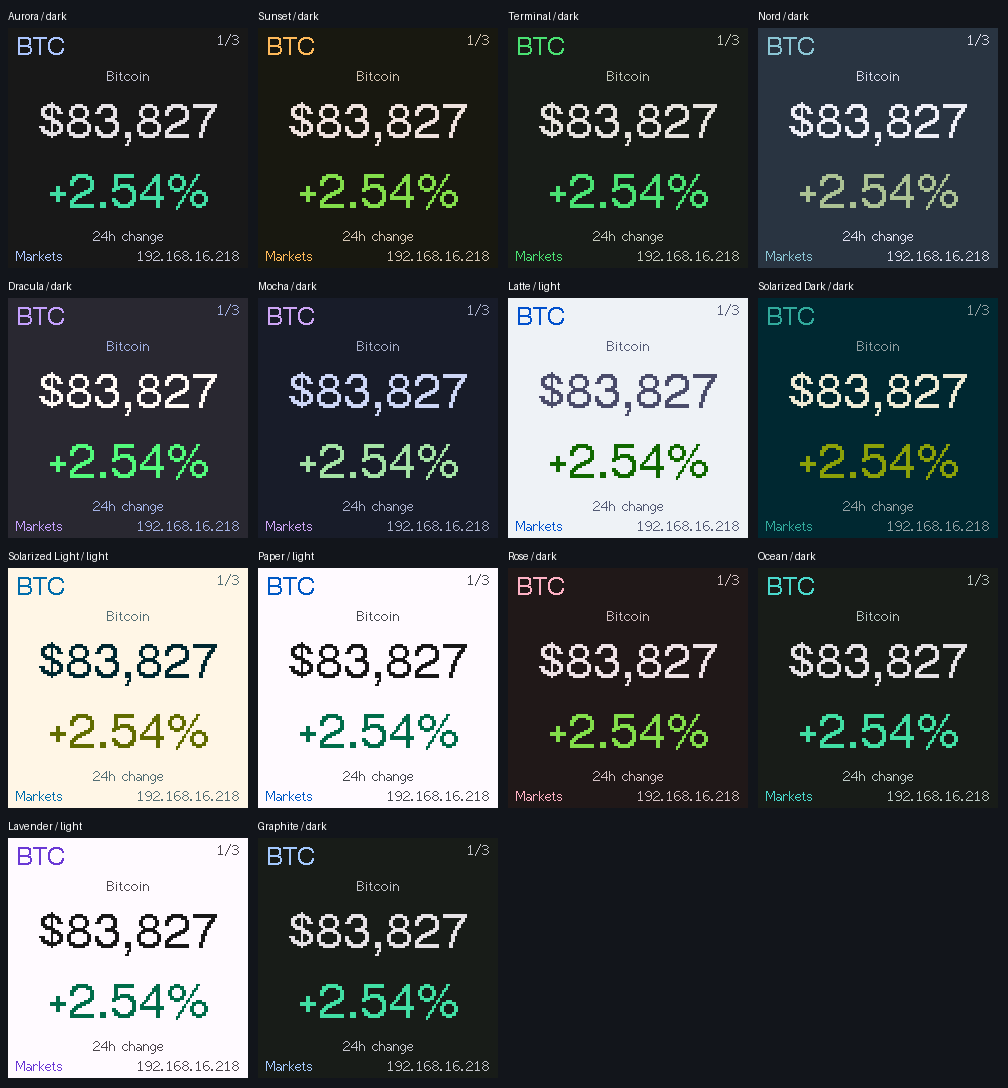
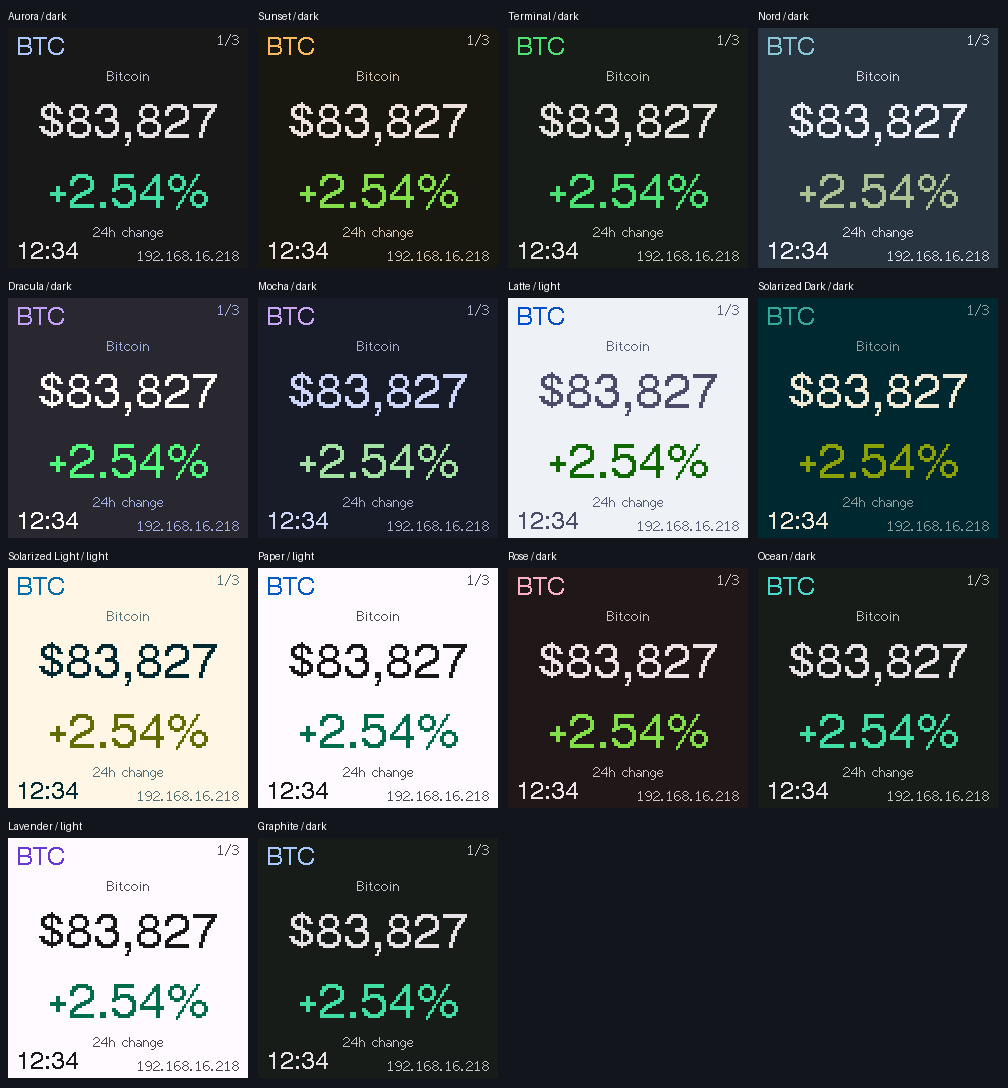
Keep local time visible on every dashboard screen

diff --git a/audit/device-ui-preview.py b/audit/device-ui-preview.py
@@ -30,7 +30,7 @@ names = '''trimTrailingZeros groupThousands formatDuration focusProgressWidth
 formatRelativeCountdown formatUtcOffset formatClockMetaLine updateClockMetaCache
 fontSupportsText chooseCanvasFittingFont drawClockTime headerSubtitle wrapText
 drawWrappedCenteredText chooseFittingFont drawAdaptiveText fitDisplayLabel
-drawDisplayLabel drawHeroText drawItemPosition drawScreenChrome drawPlaceholder
+drawDisplayLabel drawHeroText drawItemPosition footerClockText updateFooterClock drawScreenChrome drawPlaceholder
 effectiveWeatherData weatherWaitingForSync weatherUnitSymbol formatWeatherTemperature
 effectiveMarketData marketCurrencyPrefix formatMarketPriceValue formatMarketPrice
 marketChangeWindowLabel marketWaitingForSync anyMarketsWaitingForSync
@@ -41,7 +41,7 @@ hashHomeAssistantData hashWorldClockData dashboardDynamicHash updateClockDynamic
 updateFocusDynamicArea updateWorldDynamicArea updateEventDynamicArea renderClockPage
 renderWeatherPage renderMarketsPage drawHomeAssistantValue renderHomePage renderFocusPage
 renderWorldPage renderEventPage renderQuotePage renderStatusPage renderDashboardPage
-displayCycleNextPage'''.split()
+displayCycleNextPage pageUsesDynamicRefresh updateDashboardDynamicArea renderDashboardPageCached'''.split()
 functions = sorted(function(name) for name in names)
 palette = source[source.index('constexpr uint16_t rgb565'):source.index('int savedBrightness')]
 code = '#include "device-ui-fixture.h"\n' + palette
@@ -54,7 +54,7 @@ void checkBounds(){
  for(auto &d:textDraws){
   if(d.x<0||d.y<0||d.x+d.w>240||d.y+d.h>240){fprintf(stderr,"Overflow: %s at %d,%d %dx%d\n",d.text.c_str(),d.x,d.y,d.w,d.h);abort();}
   assert(d.h>=16);
-  if(d.y<220)assert(d.y+d.h<=216);
+  if(d.y<212&&d.y+d.h>212){fprintf(stderr,"Footer boundary: %s at %d,%d %dx%d\n",d.text.c_str(),d.x,d.y,d.w,d.h);abort();}
  }
  assert(tft.textSize==1&&clockDynamicSprite.textSize==1);
 }
@@ -79,11 +79,24 @@ int main(int argc,char**argv){
  assert(argc==2);fixture();
  for(int theme=0;theme<DASHBOARD_THEME_COUNT;++theme){dashboardConfig.theme=theme;
   for(int page=0;page<9;++page){displayState.currentPage=page;normalizeDashboardItem();textDraws.clear();renderDashboardPage();checkBounds();
+   assert(hasDraw("12:34"));
+   if(page!=DASHBOARD_PAGE_CLOCK){bool footer=false;for(auto &d:textDraws)if(d.text=="12:34"&&d.y>=212)footer=true;assert(footer);}
    tft.save(std::string(argv[1])+"/theme-"+std::to_string(theme)+"-page-"+std::to_string(page)+".ppm");
    if(page==DASHBOARD_PAGE_MARKETS){assert(hasDraw("Bitcoin")&&!hasDraw("Microsoft"));for(auto&d:textDraws)if(d.text=="+2.54%")assert(d.h>=52);}
    if(page==DASHBOARD_PAGE_WEATHER)for(auto&d:textDraws)if(d.text=="22C")assert(d.h>=78);
   }
  }
+ // The local clock updates independently of feed data and retains its placement.
+ displayState.currentPage=DASHBOARD_PAGE_MARKETS;dashboardConfig.use24Hour=true;
+ textDraws.clear();drawScreenChrome("Markets");assert(hasDraw("12:34"));
+ renderCache.valid=false;renderDashboardPageCached();int fullScreens=tft.fullScreens;
+ textDraws.clear();renderDashboardPageCached();assert(textDraws.empty());
+ localClockText="12:35";renderDashboardPageCached();assert(textDraws.size()==1&&hasDraw("12:35"));assert(tft.fullScreens==fullScreens);
+ assert(textDraws[0].x==8&&textDraws[0].y>=212&&textDraws[0].w<=84);checkBounds();
+ dashboardConfig.use24Hour=false;localClockPm=true;textDraws.clear();updateFooterClock();assert(hasDraw("12:35 PM"));checkBounds();
+ localClockPm=false;textDraws.clear();updateFooterClock();assert(hasDraw("12:35 AM"));checkBounds();
+ timeSynced=false;textDraws.clear();updateFooterClock();assert(hasDraw("--:--"));checkBounds();
+ timeSynced=true;localClockText="12:34";dashboardConfig.use24Hour=true;
  // Every available item is visited before advancing sections, including a single-section setup.
  for(auto &e:dashboardConfig.enabledPages)e=false;dashboardConfig.enabledPages[DASHBOARD_PAGE_MARKETS]=true;
  displayState.currentPage=DASHBOARD_PAGE_MARKETS;normalizeDashboardItem();selectedItemIndex=0;

diff --git a/src/display.cpp b/src/display.cpp
@@ -107,6 +107,7 @@ struct ClockMetaCache {
 };
 
 ClockMetaCache clockMetaCache = {false, {0}};
+char footerClockCache[16] = {0};
 bool clockDynamicSpriteReady = false;
 bool clockDynamicSpriteAttempted = false;
 uint32_t clockDynamicSpriteLastAttemptMs = 0;
@@ -157,6 +158,7 @@ void hashCString(uint32_t &hash, const char *value) {
 void invalidateRenderCache() {
     renderCache.valid = false;
     clockMetaCache.valid = false;
+    footerClockCache[0] = '\0';
     clockMetaCache.metaLine[0] = '\0';
 }
 
@@ -781,11 +783,38 @@ void drawItemPosition() {
     }
 }
 
+String footerClockText() {
+    bool isPm = false;
+    String text = formatLocalTime(false, dashboardConfig.use24Hour, &isPm);
+    if (!dashboardConfig.use24Hour && hasTimeSync()) text += isPm ? " PM" : " AM";
+    return text;
+}
+
+void updateFooterClock() {
+    if (displayState.currentPage == DASHBOARD_PAGE_CLOCK && !temporaryMessageVisible()) return;
+    String text = footerClockText();
+    if (strcmp(footerClockCache, text.c_str()) == 0) return;
+    const ThemePalette &theme = activeTheme();
+    tft.setTextSize(1);
+    const int fonts[] = {FONT_BODY, FONT_LABEL};
+    int font = chooseFittingFont(text, 84, fonts, 2, 26);
+    tft.fillRect(8, 212, 84, 28, theme.background);
+    int y = 212 + max(0, (26 - tft.fontHeight(font)) / 2);
+    drawDisplayLabel(text, 8, y, 84, TL_DATUM, theme.text, font);
+    strncpy(footerClockCache, text.c_str(), sizeof(footerClockCache) - 1);
+    footerClockCache[sizeof(footerClockCache) - 1] = '\0';
+}
+
 void drawScreenChrome(const String &title) {
     const ThemePalette &theme = activeTheme();
     tft.setTextSize(1);
     tft.fillScreen(theme.background);
-    drawDisplayLabel(title, 8, 220, 84, TL_DATUM, theme.accent);
+    footerClockCache[0] = '\0';
+    if (displayState.currentPage == DASHBOARD_PAGE_CLOCK && !temporaryMessageVisible()) {
+        drawDisplayLabel(title, 8, 220, 84, TL_DATUM, theme.accent);
+    } else {
+        updateFooterClock();
+    }
     String address = headerSubtitle();
     if (!address.isEmpty()) {
         drawDisplayLabel(address, 232, 220, 132, TR_DATUM, theme.muted);
@@ -1555,8 +1584,8 @@ void renderWeatherPage() {
     const char *labels[] = {"High", "Low", "Rain"};
     for (uint8_t index = 0; index < 3; ++index) {
         int centerX = 40 + index * 80;
-        drawDisplayLabel(labels[index], centerX, 170, 72, TC_DATUM, theme.muted);
-        drawAdaptiveText(values[index], centerX, 188, 72, TC_DATUM,
+        drawDisplayLabel(labels[index], centerX, 166, 72, TC_DATUM, theme.muted);
+        drawAdaptiveText(values[index], centerX, 184, 72, TC_DATUM,
                          valueFonts, sizeof(valueFonts) / sizeof(valueFonts[0]), theme.text, theme.background);
     }
 }
@@ -1578,7 +1607,7 @@ void renderMarketsPage() {
     String change = (market->changePercent >= 0.0f ? "+" : "") + trimTrailingZeros(market->changePercent,
                        fabsf(market->changePercent) >= 10.0f ? 1 : 2) + "%";
     drawHeroText(change, 136, 64, market->changePercent >= 0.0f ? theme.positive : theme.negative);
-    drawDisplayLabel(marketChangeWindowLabel(index) + " change", 120, 200, 224, TC_DATUM, theme.muted);
+    drawDisplayLabel(marketChangeWindowLabel(index) + " change", 120, 196, 224, TC_DATUM, theme.muted);
 }
 
 void drawHomeAssistantValue(uint8_t slotIndex) {
@@ -1763,6 +1792,7 @@ void renderDashboardPageCached() {
         updateDashboardDynamicArea(pageId);
         renderCache.dynamicHash = dynamicHash;
     }
+    updateFooterClock();
 }
 
 }  // namespace
@@ -1949,6 +1979,7 @@ void displayUpdate() {
             renderCache.mode == DISPLAY_MODE_TEMP_MESSAGE &&
             renderCache.theme == themeId &&
             renderCache.staticHash == currentHash) {
+            updateFooterClock();
             return;
         }
 

diff --git a/audit/device-ui-fixture.h b/audit/device-ui-fixture.h
@@ -62,7 +62,8 @@ struct Canvas {
     int textWidth(const String&s,int f=0) const {if(!f)f=currentFont;int w=0;for(unsigned char c:s)w+=charWidth(c,f)*textSize;return w;}
     void pixel(int x,int y,uint16_t c) {if(x>=0&&x<width&&y>=0&&y<height)pixels[y*width+x]=c;}
     void fillRect(int x,int y,int w,int h,uint16_t c) {for(int yy=max(y,0);yy<min(y+h,height);++yy)for(int xx=max(x,0);xx<min(x+w,width);++xx)pixel(xx,yy,c);}
-    void fillScreen(uint16_t c) {std::fill(pixels.begin(),pixels.end(),c);}
+    int fullScreens=0;
+    void fillScreen(uint16_t c) {++fullScreens;std::fill(pixels.begin(),pixels.end(),c);}
     void fillRoundRect(int x,int y,int w,int h,int r,uint16_t c) {
         for(int yy=0;yy<h;++yy)for(int xx=0;xx<w;++xx){
             int dx=xx<r?r-xx-1:xx>=w-r?xx-(w-r):0;
@@ -158,15 +159,22 @@ bool hasStatusContent(){return !emptyData;}
 bool homeAssistantWaitingForSync(){return false;}
 const char *activeClockMessage(){return nullptr;}
 String safeCString(const char*s){return s?s:"";}
-String formatLocalTime(bool seconds,bool,bool *pm){*pm=false;return seconds?"12:34:56":"12:34";}
+String localClockText="12:34";
+bool localClockPm=false,timeSynced=true;
+char footerClockCache[16]={};
+String formatLocalTime(bool seconds,bool,bool *pm){*pm=localClockPm;return timeSynced ? localClockText+(seconds?":56":"") : "--:--";}
 String formatLocalDate(){return "Wed 14 Oct 2026";}
 String formatWorldTime(long offset){return offset==32400?"12:34":"08:34";}
-bool hasTimeSync(){return true;}
+bool hasTimeSync(){return timeSynced;}
 int32_t dashboardFocusRemainingSeconds(){return 24*60+38;}
 int32_t dashboardEventRemainingSeconds(){return 2*3600+3*60;}
 bool ensureClockDynamicSprite(){return spriteAvailable;}
 struct {bool valid=false;char metaLine[40]={};} clockMetaCache;
 bool temporaryMessageVisible(){return false;}
+constexpr int DISPLAY_MODE_DASHBOARD=0;
+struct {bool valid=false;uint8_t mode=0,page=0,theme=0;uint32_t staticHash=0,dynamicHash=0;} renderCache;
+uint8_t activeThemeIdValue(){return dashboardConfig.theme;}
+uint32_t dashboardStaticHash(uint8_t){return 1;}
 int appliedBrightness=70;
 int beginPageTransition(int n){return n;}
 void endPageTransition(int,int){}

diff --git a/README.md b/README.md
@@ -25,6 +25,7 @@ Rendered previews use the firmware layout functions and the actual TFT font bitm
 - EEPROM settings validation with firmware version and CRC checks
 - NTP time synchronization with configurable UTC offset
 - Day and night display profiles with scheduled brightness and theme options
+- Persistent local time on weather, markets, and every other dashboard page, with 12/24-hour formatting
 - Multi-page display: clock, weather, markets, Home Assistant, focus timer, world clocks, event countdown, quote, and status pages
 - Open-Meteo weather, Finnhub or CoinGecko market feeds, and queued Home Assistant REST polling with per-entity errors and freshness
 - Factory reset from the dashboard or by five quick power cycles
